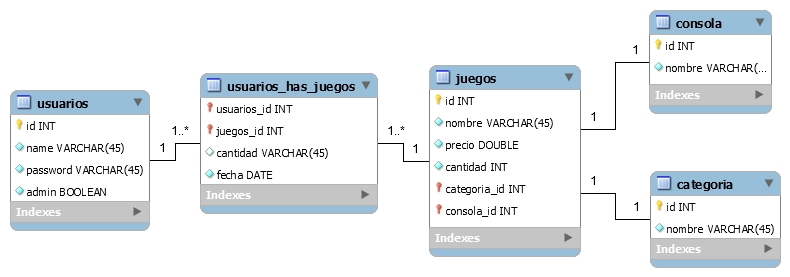
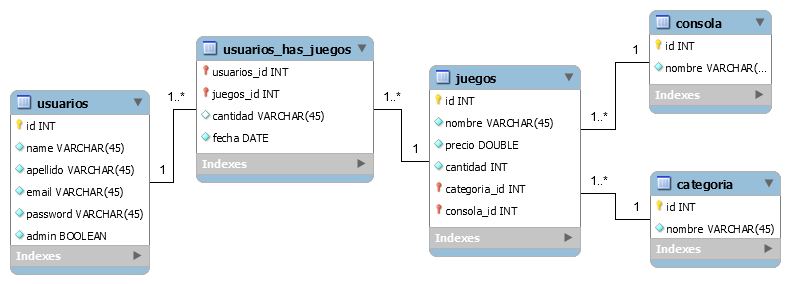
ya registra usuarios

diff --git a/daos/registro.php b/daos/registro.php
@@ -7,14 +7,14 @@
  */
 
 
-$conexion = mysql_connect("localhost", "root", "08001421");
-mysql_select_db("web", $conexion);
+$conexion = mysql_connect("localhost", "root", "root");
+mysql_select_db("proyectoweb", $conexion);
 
 
 if ($_POST['Nombre'] == '' or $_POST['Apellidos'] == '' or $_POST['email'] == '' or $_POST['password'] == '') {
     echo 'Por favor llene todos los campos.';
 } else {
-    $sql = 'SELECT * FROM users';
+    $sql = 'SELECT * FROM usuarios';
     $rec = mysql_query($sql);
     $existe_Usuario = false;
 
@@ -32,7 +32,7 @@ if ($_POST['Nombre'] == '' or $_POST['Apellidos'] == '' or $_POST['email'] == ''
             $apellido = $_POST['Apellidos'];
             $email = $_POST['email'];
             $password = $_POST['password'];
-            $sql = "INSERT INTO users (usuario_nombre,usuario_apellido,usuario_clave, usuario_email) VALUES ('$nombre','$apellido', '$password', '$email')";
+            $sql = "INSERT INTO `proyectoweb`.`usuarios` (`name`, `apellido`, `email`, `password`, `admin`) VALUES ('$nombre', '$apellido', '$email', '$password', '0')";
             mysql_query($sql);
 
             echo 'Usted se ha registrado correctamente.';

diff --git a/ingresa.php b/ingresa.php
@@ -39,7 +39,7 @@
             </table>
            <p></p>
             <input type="submit" class="button" value="Entrar"/>
-            <input type="button" class="button" id="registrate"  value="Registrate!"/>
+            <a href="Registra.php" class="button">Registrate!</a>
         </form>
         </div>
     </section>

diff --git a/_header.php b/_header.php
@@ -12,7 +12,7 @@ session_start();
 
 <header>
     <div class="main">
-        <h1><a href="index3.html"></a>GAME CENTER</h1>
+        <h1><a href="index.php"></a>GAME CENTER</h1>
         <div class="social-icons">
             <span>Siguenos:</span>
             <div>
